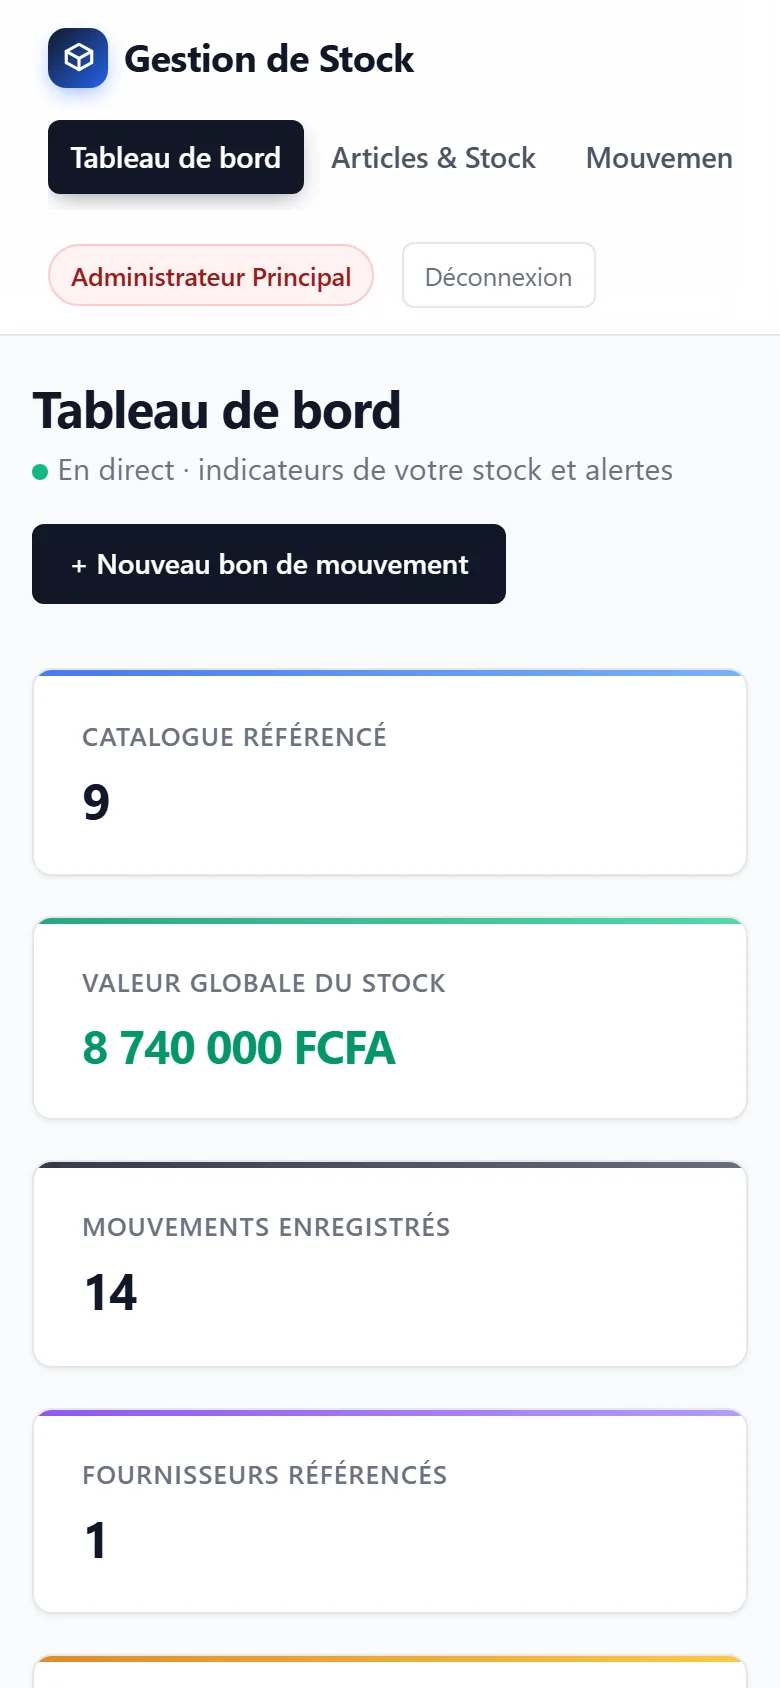
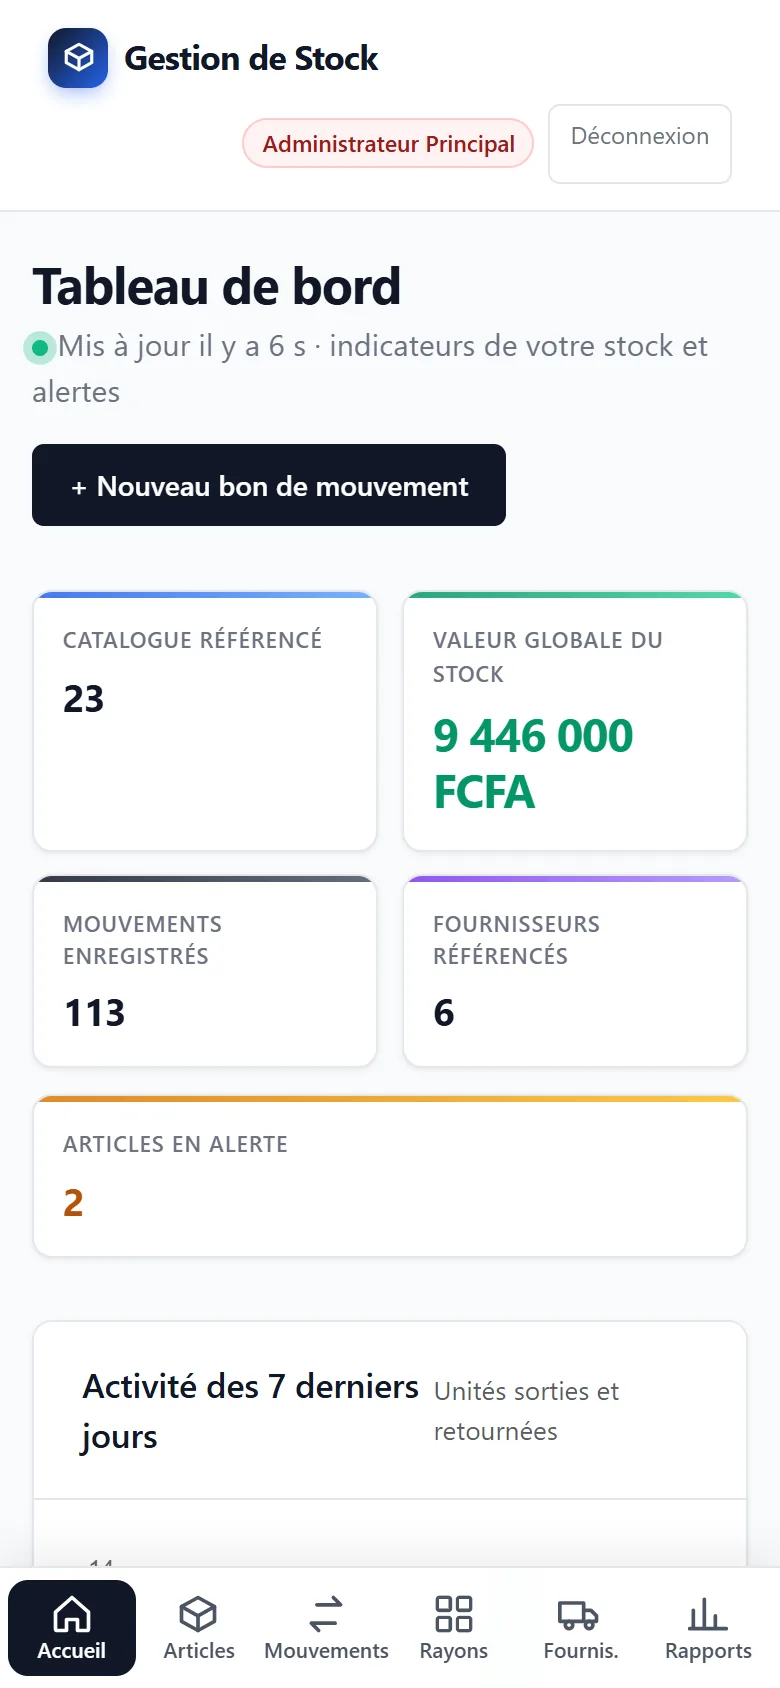
Portfolio : Gestion de Stock utilisable sur telephone (texte et capture)

diff --git a/index.html b/index.html
@@ -148,7 +148,7 @@
               <button type="button" class="thumb" data-src="assets/img/stock-recu.webp" data-alt="Reçu de caisse numéroté avec total en FCFA" data-cap="Reçu numéroté prêt à imprimer, en ticket 80 mm ou en PDF."><img src="assets/img/stock-recu.webp" alt="" loading="lazy" width="140" height="100"><span>Reçu</span></button>
               <button type="button" class="thumb" data-src="assets/img/stock-articles.webp" data-alt="Liste des articles avec recherche instantanée, filtres et barres de niveau de stock" data-cap="Articles : recherche instantanée, filtres, tri et barres de niveau de stock."><img src="assets/img/stock-articles.webp" alt="" loading="lazy" width="140" height="100"><span>Articles</span></button>
               <button type="button" class="thumb" data-src="assets/img/stock-login.webp" data-alt="Page de connexion sombre avec fond animé" data-cap="Connexion sécurisée, deux profils : administrateur et employé."><img src="assets/img/stock-login.webp" alt="" loading="lazy" width="140" height="100"><span>Connexion</span></button>
-              <button type="button" class="thumb" data-src="assets/img/stock-mobile.webp" data-alt="Tableau de bord affiché sur téléphone" data-cap="Affichage adapté au téléphone."><img src="assets/img/stock-mobile.webp" alt="" loading="lazy" width="140" height="100"><span>Mobile</span></button>
+              <button type="button" class="thumb" data-src="assets/img/stock-mobile.webp" data-alt="Tableau de bord de Gestion de Stock affiché sur téléphone avec la barre d’onglets en bas" data-cap="Sur téléphone : menu en barre d’onglets en bas de l’écran, indicateurs sur deux colonnes, tableaux en cartes."><img src="assets/img/stock-mobile.webp" alt="" loading="lazy" width="140" height="100"><span>Mobile</span></button>
             </div>
             <p class="gallery-cap" data-cap>Tableau de bord : indicateurs animés, activité des 7 derniers jours, alertes de stock, actualisation automatique.</p>
           </div>
@@ -161,6 +161,7 @@
               <li>Deux profils : l’administrateur voit prix d’achat, marges et rapports ; l’employé ne voit que la caisse. Les droits sont appliqués <strong>côté serveur</strong>.</li>
               <li>Une sortie baisse le stock et crée le mouvement dans <strong>une seule transaction</strong>, avec refus si le stock est insuffisant.</li>
               <li>Installable comme une application, et disponible en <strong>exécutable Windows</strong> d’un double-clic.</li>
+              <li><strong>Utilisable sur téléphone</strong> : affichage en barre d’onglets et en cartes, et accès depuis les téléphones du magasin par le Wi-Fi (adresse et QR code dans le logiciel).</li>
             </ul>
             <ul class="chips" aria-label="Technologies">
               <li>Python</li><li>Flask</li><li>SQLAlchemy</li><li>SQLite / MySQL</li><li>JavaScript</li><li>Chart.js</li><li>Bootstrap</li><li>PWA</li><li>PyInstaller</li>
